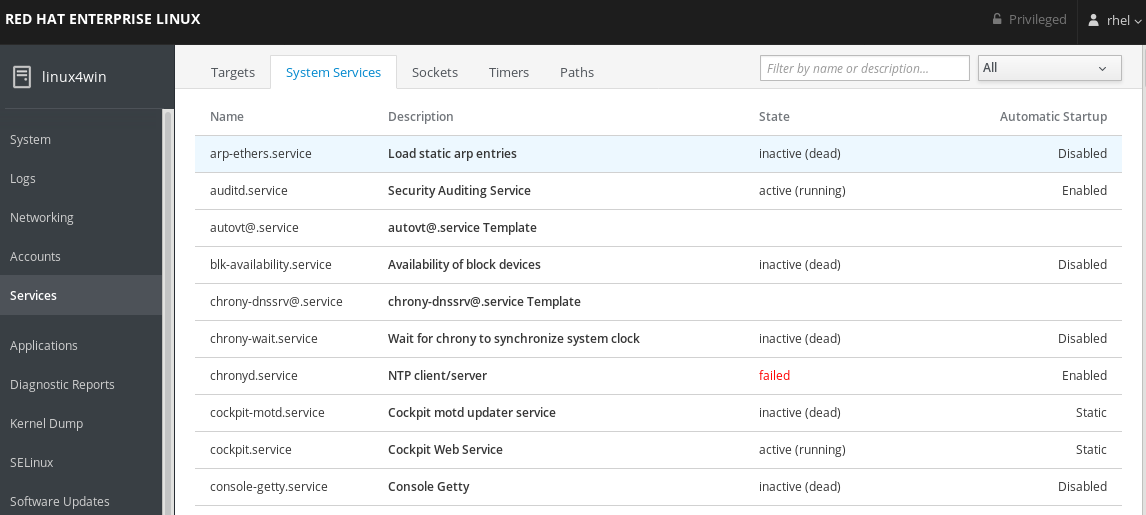
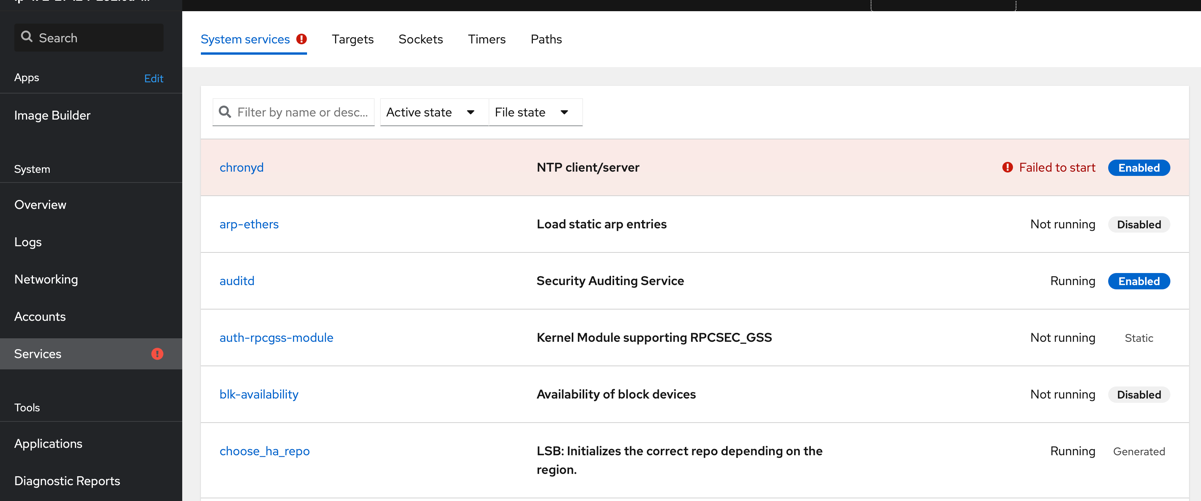
new images in lab6

diff --git a/content/lab6.md b/content/lab6.md
@@ -31,7 +31,7 @@ We have installed a service that is failing. A service, as explained before, is 
 
 ![services user interface of cockpit](images/services_interface.png)
 
-:boom: You can filter services by their status. Click where it says **All** and select ```Enabled``` to view services that are set to start at boot.
+:boom: You can filter services by their status. Click where it says **File state** and select ```Enabled``` to view services that are set to start at boot.
 
 ```Disabled``` means services that are installed but not set to start at boot.
 ```Static``` services are started on-demand when they are needed by other services or when new hardware is plugged into the system.
@@ -48,7 +48,7 @@ The failed service is the chronyd service. Chronyd is the default NTP service on
 
 ![services details](images/failed_chronyd.png)
 
-:boom: To look at any logs collected on this system - click on the  ```Logs``` menu option in the menu on your left.
+:boom: To look at any logs collected on this system - click on the  ```Logs``` menu option in the menu on your left. Or you can use the ```View all logs``` button on the details page.
 
 ![logs user interface of cockpit](images/interface_logs.png)
 
